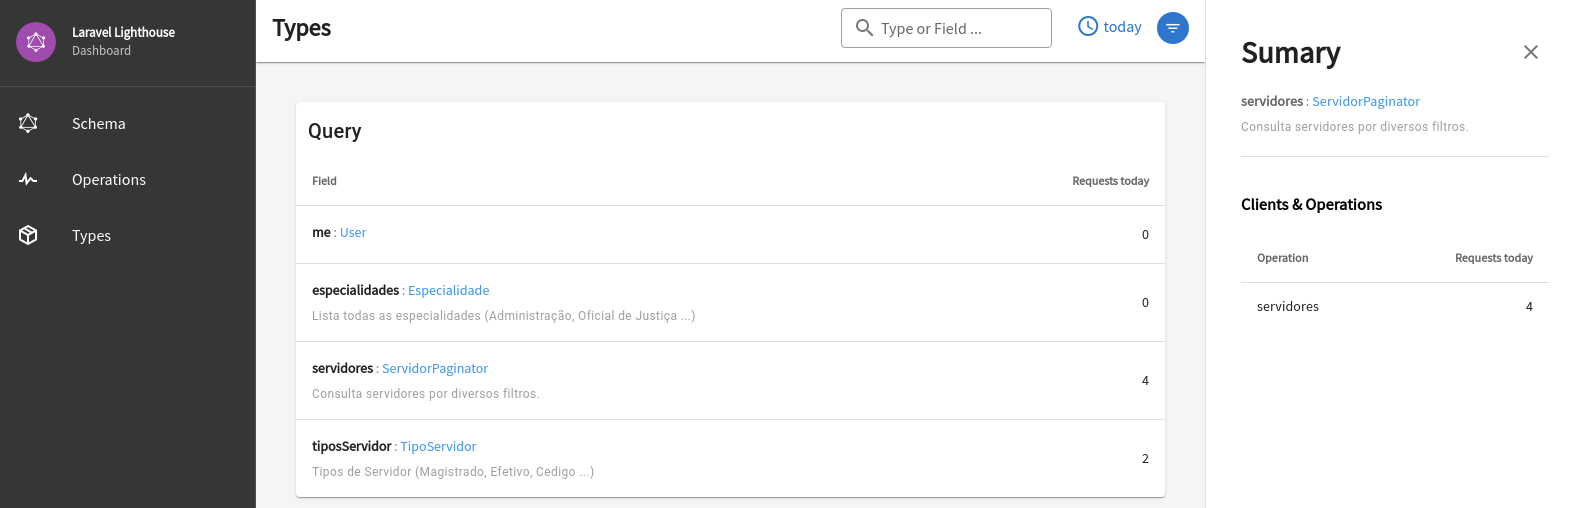
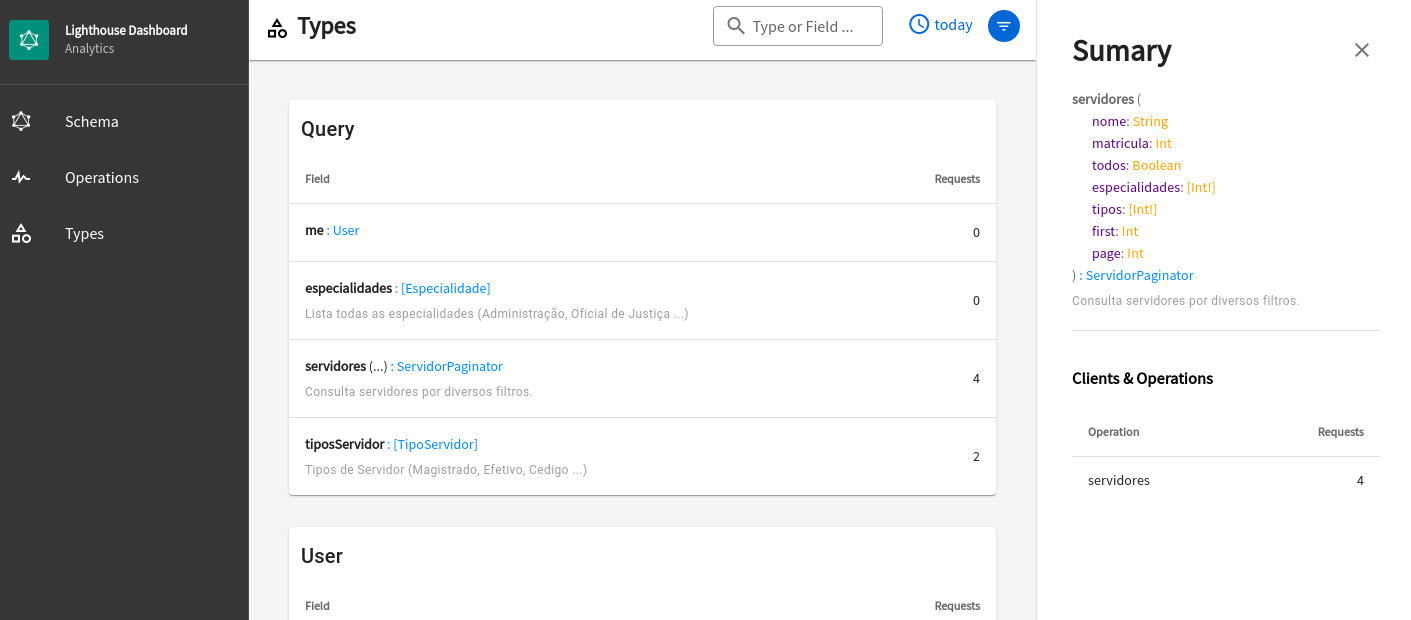
README

diff --git a/README.md b/README.md
@@ -6,11 +6,16 @@
     <img src="https://img.shields.io/packagist/dt/robsontenorio/lighthouse-dashboard.svg" />
 </p>
 
-# Analytics dashboard for Laravel Lighthouse GraphQL
+# Dashboard for Laravel Lighthouse GraphQL
 
 **WARNING: WORK IN PROGRESS!**
 
 This package adds a standalone analytics dasbhoard with metrics collected from  [Laravel Lighthouse GraphQL Server](https://lighthouse-php.com/).
+
+Requirements:
+
+- Laravel 8.x
+- Laravel Lighthouse 5.x
 
 <kbd>
     <img src="readme.png">
